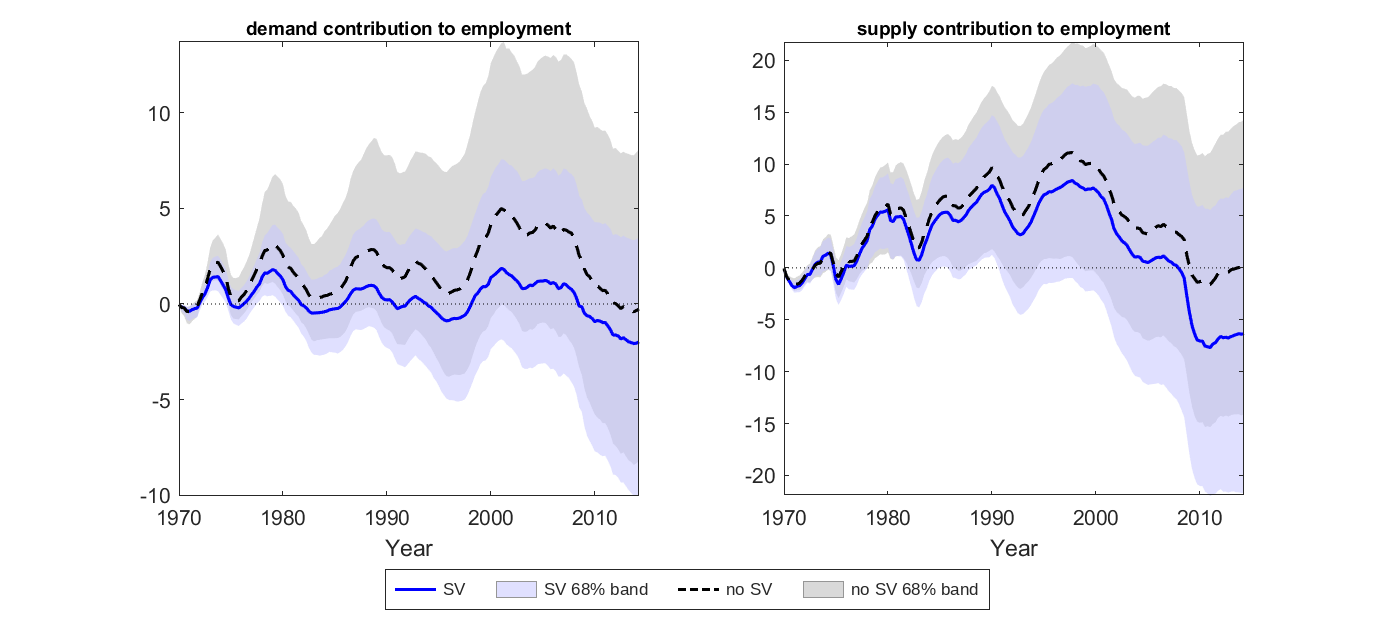
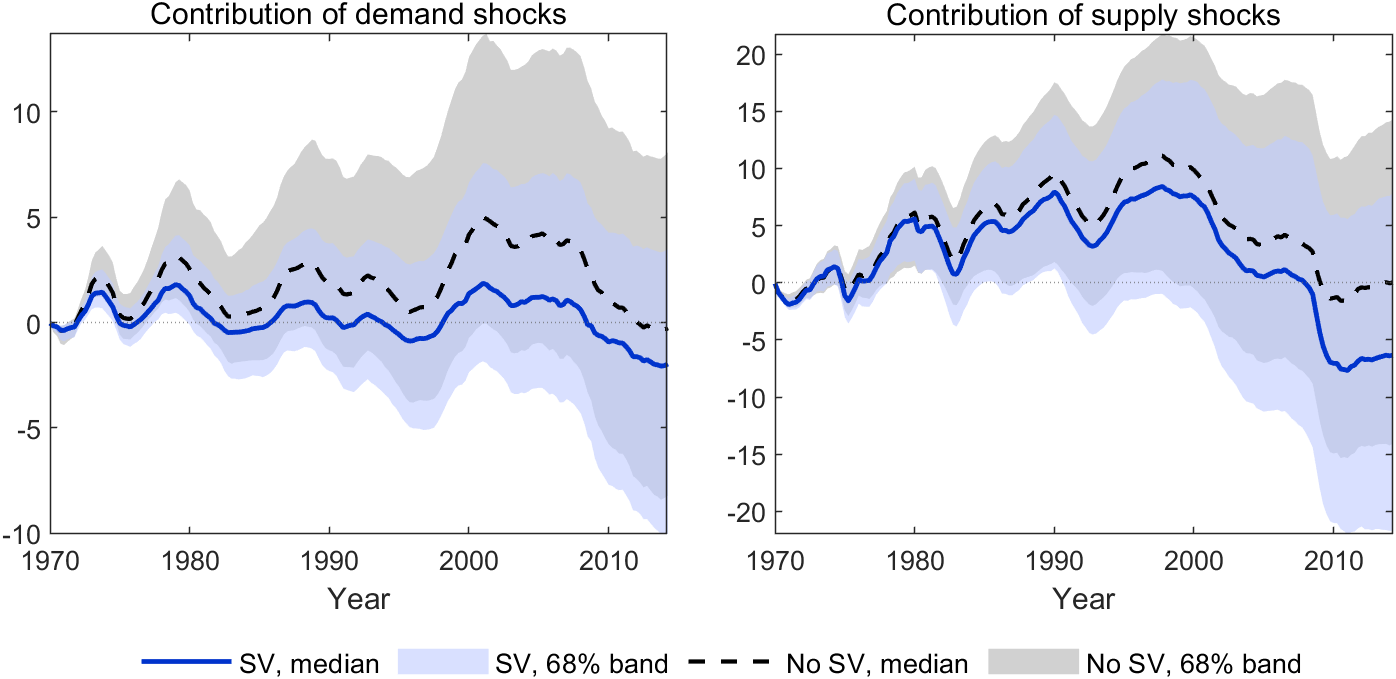
Blog BH15: native-legend figures and wage historical decomposition
Regenerate the historical decomposition of employment and the unit IRFs
in MATLAB with a native legend, replacing the overlaid provisional one.
Add the historical decomposition of wages as Figure 4, renumber the
following figures and correct the variance-decomposition shares.

diff --git a/_posts/2026-10-03-stochastic-volatility-baumeister-hamilton.md b/_posts/2026-10-03-stochastic-volatility-baumeister-hamilton.md
@@ -90,7 +90,7 @@ I use the BH15 bivariate labor-market model: quarterly growth of real hourly com
   <figcaption><strong>Figure 2. Elasticity posteriors</strong> with (blue) and without (grey) stochastic volatility. The demand slope \(\beta\) (left) is essentially the same. The supply slope \(\alpha\) (right) keeps its centre, but stochastic volatility removes the right tail, between 0.5 and 1.4, that the homoskedastic model leaves open.</figcaption>
 </figure>
 
-The variance-decomposition shares do not move, with wage variance about 88% demand-driven and employment variance about 85% supply-driven in both models, but their 68% bands are about 27% narrower with stochastic volatility.
+The variance-decomposition shares barely move. Wage variance is about 88% demand-driven with stochastic volatility and 86% without, and employment variance about 85% and 80% supply-driven, but the 68% bands are about 27% narrower with stochastic volatility.
 
 **Historical decomposition.** Figure 3 compares the contributions of demand and supply shocks to employment in the two models. They share the same broad shape: supply shocks drive the build-up of employment through the 1980s and 1990s and its fall after 2008. With stochastic volatility, however, both contributions are somewhat lower, especially from the late 1990s on, and the post-2008 fall in the supply contribution is much sharper, to about −7 by 2010 against about −1 without stochastic volatility. On average, the stochastic-volatility bands are about 13% narrower.
 
@@ -99,25 +99,32 @@ The variance-decomposition shares do not move, with wage variance about 88% dema
   <figcaption><strong>Figure 3. Historical decomposition of employment</strong>: contributions of demand shocks (left) and supply shocks (right), with and without stochastic volatility. Shaded areas are 68% bands.</figcaption>
 </figure>
 
-**Unit responses.** Responses to a unit structural shock line up on impact, where they depend only on $$A$$ (Figure 4). At longer horizons they also depend on the lag coefficients, which stochastic volatility estimates by GLS, so the two models drift apart somewhat. The shapes and signs are the same and the bands overlap.
+For wages (Figure 4), demand shocks are the main driver in both models. With stochastic volatility their contribution turns negative after 2008, to about −2.7 by 2010 and −4.8 by 2014, against about 1.1 and zero without it. Unlike for employment, the bands are not narrower: on average they are as wide as without stochastic volatility.
+
+<figure>
+  <a href="/assets/blog/bh15-sv/historical-decomposition-wages.png"><img src="/assets/blog/bh15-sv/historical-decomposition-wages.png" alt="Historical decomposition of wages into demand and supply contributions, with and without stochastic volatility"></a>
+  <figcaption><strong>Figure 4. Historical decomposition of wages</strong>: contributions of demand shocks (left) and supply shocks (right), with and without stochastic volatility. Shaded areas are 68% bands.</figcaption>
+</figure>
+
+**Unit responses.** Responses to a unit structural shock line up on impact, where they depend only on $$A$$ (Figure 5). At longer horizons they also depend on the lag coefficients, which stochastic volatility estimates by GLS, so the two models drift apart somewhat. The shapes and signs are the same and the bands overlap.
 
 <figure>
   <a href="/assets/blog/bh15-sv/unit-irfs.png"><img src="/assets/blog/bh15-sv/unit-irfs.png" alt="Responses of wages and employment to unit demand and supply shocks, with and without stochastic volatility"></a>
-  <figcaption><strong>Figure 4. Responses to a unit structural shock</strong>, cumulated to levels, with and without stochastic volatility. Shaded areas are 68% bands. Impact responses coincide, and differences at longer horizons come from the lag coefficients.</figcaption>
+  <figcaption><strong>Figure 5. Responses to a unit structural shock</strong>, cumulated to levels, with and without stochastic volatility. Shaded areas are 68% bands. Impact responses coincide, and differences at longer horizons come from the lag coefficients.</figcaption>
 </figure>
 
-**State dependence.** A one-standard-deviation shock has size $$\sqrt{d_{ii}}\, e^{h_t/2}$$, so its impulse response is the unit response scaled by the volatility of the moment. A shock in 2009 moves employment about 1.8 times as much as one in 1995, the ratio of the median volatility factor in the two years, 1.35 against 0.75 (Figure 5). The homoskedastic model has a single one-standard-deviation response. Stochastic volatility replaces it with a family that breathes with the cycle.
+**State dependence.** A one-standard-deviation shock has size $$\sqrt{d_{ii}}\, e^{h_t/2}$$, so its impulse response is the unit response scaled by the volatility of the moment. A shock in 2009 moves employment about 1.8 times as much as one in 1995, the ratio of the median volatility factor in the two years, 1.35 against 0.75 (Figure 6). The homoskedastic model has a single one-standard-deviation response. Stochastic volatility replaces it with a family that breathes with the cycle.
 
 <figure>
   <a href="/assets/blog/bh15-sv/one-sd-employment.png"><img src="/assets/blog/bh15-sv/one-sd-employment.png" alt="Employment responses to one-standard-deviation demand and supply shocks in 2009 and in 1995"></a>
-  <figcaption><strong>Figure 5. One-standard-deviation responses of employment</strong> to a demand shock (left) and a supply shock (right), dated 2009 (red, high volatility) and 1995 (blue, low volatility). Same shape, but the 2009 response is about 1.8 times larger.</figcaption>
+  <figcaption><strong>Figure 6. One-standard-deviation responses of employment</strong> to a demand shock (left) and a supply shock (right), dated 2009 (red, high volatility) and 1995 (blue, low volatility). Same shape, but the 2009 response is about 1.8 times larger.</figcaption>
 </figure>
 
-**Where the volatility lives.** Under homoskedasticity, the squared demand shocks are autocorrelated, the hallmark of volatility clustering: the first-order autocorrelation is 0.26 and the Ljung–Box p-value 0.001 (Figure 6). After standardizing by the volatility factor, the autocorrelation falls to 0.14 and the p-value rises to 0.14. The supply shock shows no clustering in either model. The time-varying volatility sits in the demand shock, which is also the dominant driver of wages.
+**Where the volatility lives.** Under homoskedasticity, the squared demand shocks are autocorrelated, the hallmark of volatility clustering: the first-order autocorrelation is 0.26 and the Ljung–Box p-value 0.001 (Figure 7). After standardizing by the volatility factor, the autocorrelation falls to 0.14 and the p-value rises to 0.14. The supply shock shows no clustering in either model. The time-varying volatility sits in the demand shock, which is also the dominant driver of wages.
 
 <figure>
   <a href="/assets/blog/bh15-sv/acf-squared-shocks.png"><img src="/assets/blog/bh15-sv/acf-squared-shocks.png" alt="Autocorrelation and partial autocorrelation of the squared demand and supply shocks, with and without stochastic volatility"></a>
-  <figcaption><strong>Figure 6. Autocorrelation (left) and partial autocorrelation (right) of the squared structural shocks</strong>, for the demand shock (top) and the supply shock (bottom), with and without stochastic volatility. Dashed lines mark the \(\pm 1.96/\sqrt{T}\) bounds, and the panel titles report Ljung–Box p-values.</figcaption>
+  <figcaption><strong>Figure 7. Autocorrelation (left) and partial autocorrelation (right) of the squared structural shocks</strong>, for the demand shock (top) and the supply shock (bottom), with and without stochastic volatility. Dashed lines mark the \(\pm 1.96/\sqrt{T}\) bounds, and the panel titles report Ljung–Box p-values.</figcaption>
 </figure>
 
 ## Takeaways
